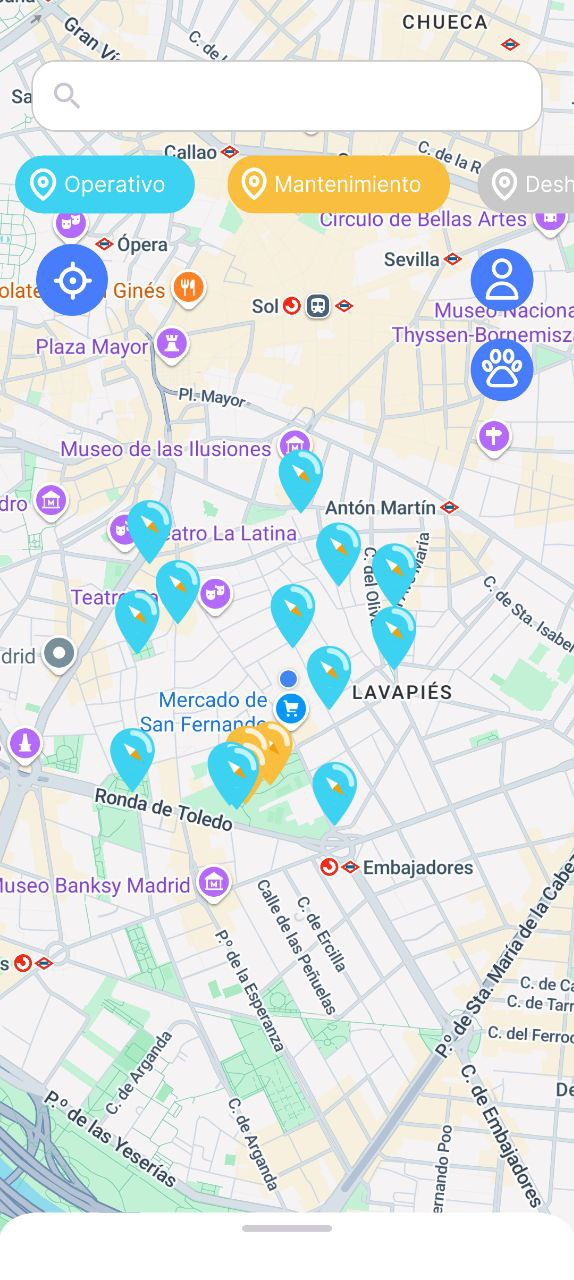
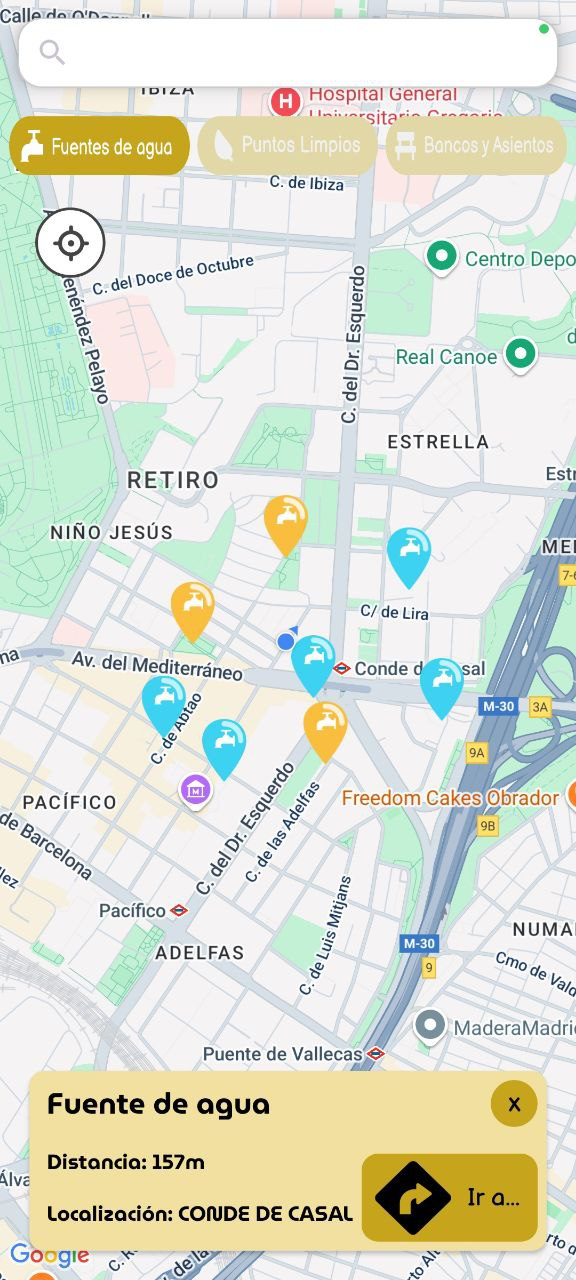
Readme actualizado

diff --git a/README.md b/README.md
@@ -1,46 +1,57 @@
 # Fontway
 
-Una aplicación para encontrar fuentes de agua cercanas en tu ciudad, ya sea para tu perro o para ti.
+Una aplicación para descubrir fuentes públicas, bancos y puntos limpios en la ciudad de Madrid de forma rápida, práctica y sostenible.
 
-> **Proyecto Integrador DAM2 24/25**
+> Proyecto de Fin de Grado DAM2 24/25
 
 ## 🚀 Características
 
-- 🌍 Encuentra fuentes para personas o animales en tu zona.
-- 💧 Información sobre el estado de la fuente (en mantenimiento, disponible, etc.).
-- ⚙ Aplica filtros a las fuentes visualizadas.
+- 🌍 Encuentra fuentes públicas, bancos y puntos limpios cerca de ti.
+- 💧 Información sobre el estado y tipo de cada punto (disponibilidad, tipo de uso, etc.).
+- 🔄 Cambia fácilmente entre los distintos tipos de elementos con un solo toque.
+- 🧭 Navegación paso a paso desde tu ubicación hasta el punto seleccionado.
 
 ## 💡 Figma
 
-<img src="/img/Prototipo_Main.png" alt="Prototipo del main" style="width:200px; height:auto;">  
+<img src="/img/Prototipo_Main.png" alt="Prototipo del main" style="width:200px; height:auto;">
 
 [Visita el Figma](https://www.figma.com/design/y6SO0lJ3bDAyEqmhDfegK7/FontWay?node-id=0-1&p=f&t=5FkMIhLwzE9Z5xBi-0)
 
 ## ⚙ Funcionalidades principales
 
-- 📍 **Visualización en mapa**: Utilizando una API pública de la Comunidad de Madrid, la aplicación muestra las fuentes en un mapa con Google Maps.
+- 📍 Visualización en mapa:
 
-<img src="img/App1.jpg" alt="App1" style="width:200px; height:auto;">  
+Mediante datos abiertos del Ayuntamiento de Madrid, la app muestra fuentes, bancos y puntos limpios sobre un mapa interactivo con Google Maps.
 
-- 🔎 **Búsqueda de fuentes**: Permite encontrar las fuentes de una zona mediante un buscador.
 
-<img src="img/Busqueda1.jpg" alt="Busqueda" style="width:200px; height:auto;">  
 
-- 🏷 **Filtro de fuentes**:
-  - Estado de la fuente (Operativa, Cerrada temporalmente, Fuera de servicio).
-  - Tipo de uso (Personas, Mascotas, Ambas).
+- 🏷 Cambio de Marcadores:
 
-<img src="img/Filtros.jpg" alt="Filtros" style="width:200px; height:auto;">  
+Cambia entre los diferentes tipos de Marcadores para una experiencia mas agradable.
 
-- 📋 **Barra inferior**:
-  - La aplicación cuenta con una barra inferior que facilita la ubicación de fuentes cercanas.
 
-<img src="img/Bottom_bar.jpg" alt="Bottom bar" style="width:200px; height:auto;">  
+- 📋 Tarjetas informativas:
+
+Al seleccionar un marcador o detectar el más cercano, se muestra una tarjeta con información detallada: Tipo de marcador(Fuente, banco o punto limpio),distancia, ubicación e Ir a... para empezar la ruta al marcador seleccionado.
+
+<img src="img/App1.jpg" alt="App1" style="width:200px; height:auto;">
+
+- 🔎 Búsqueda de puntos:
+
+Localiza rápidamente fuentes por barrios a través de un buscador integrado.
+
+<img src="img/Busqueda1.jpg" alt="Busqueda" style="width:200px; height:auto;">
+
+## 💚 ¿Por qué usar Fontway?
+
+- Encuentra dónde descansar con bancos públicos.
+- Hidrátate gratuitamente en fuentes disponibles.
+- Recicla responsablemente localizando puntos limpios cercanos.
+- Desplázate fácilmente por la ciudad con indicaciones paso a paso.
 
 ## 🧑💻 Créditos
 
 Proyecto realizado por:
 
-- **Kevin Luis Laurente**
-- **Armando Granados**
-- **Bruno Veiga**  
+- Kevin Luis Laurente
+- Bruno Veiga
